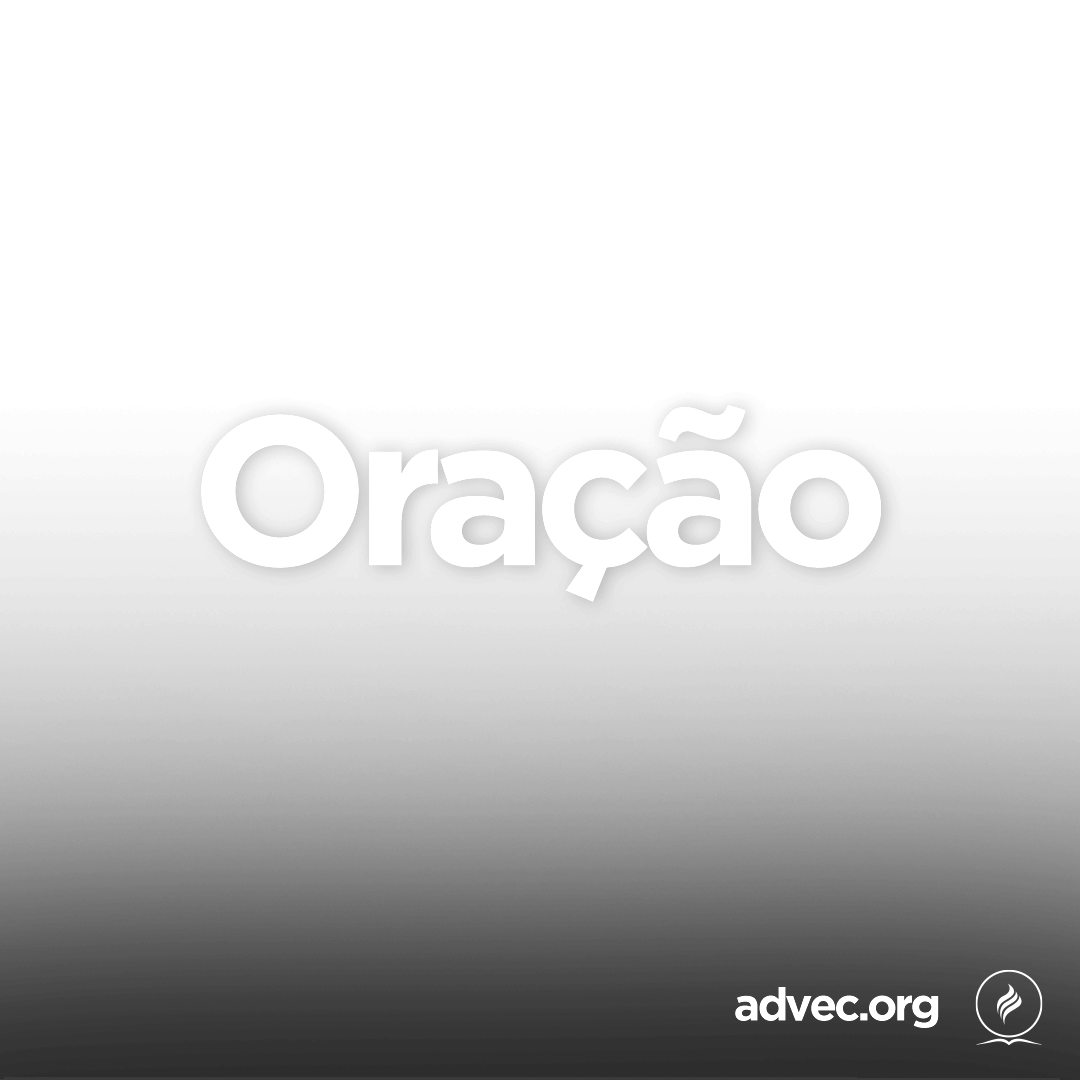
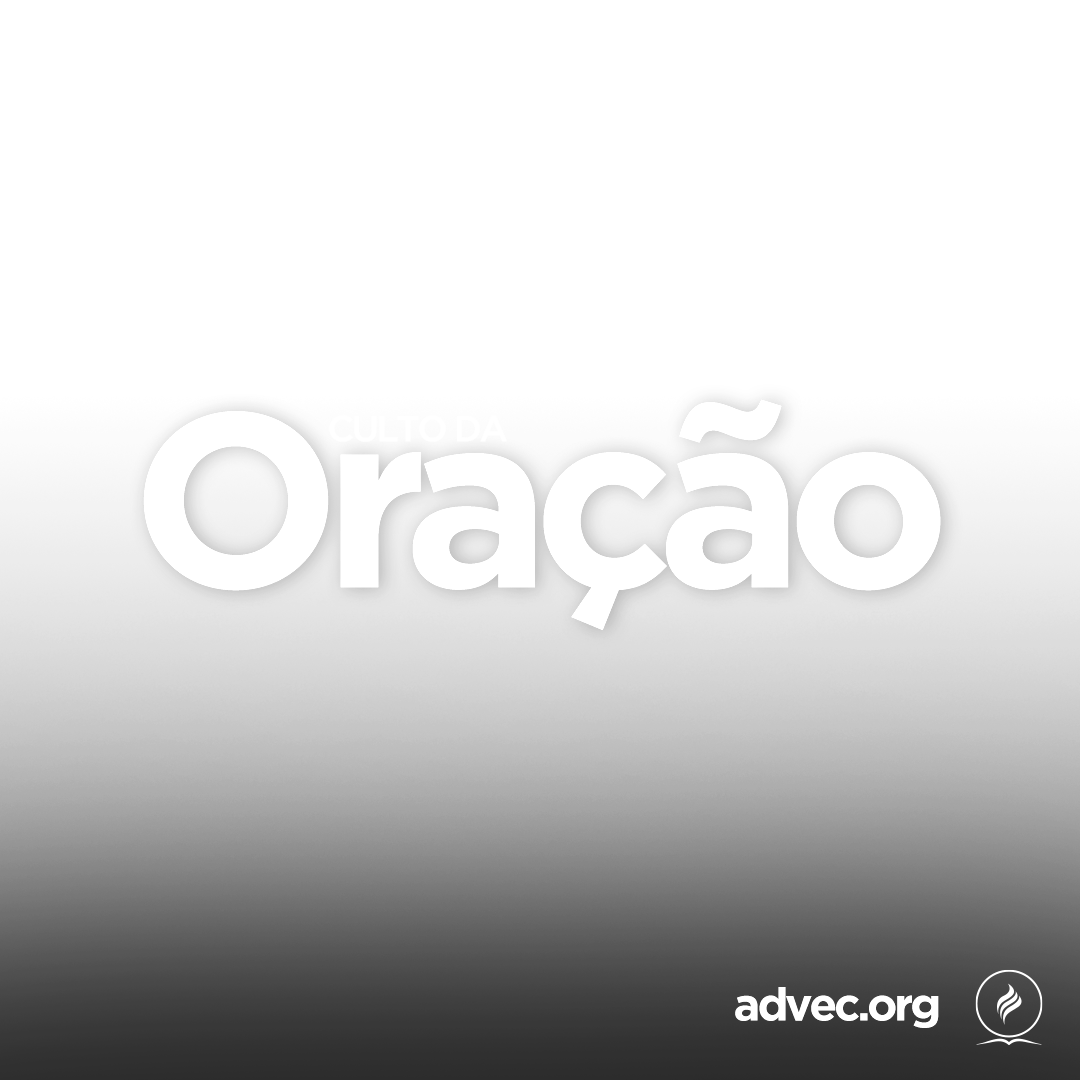
Quebrando linha por sílaba e alterando o loading

Changed region(s): [[0.1833, 0.3972, 0.8556, 0.5806], [0.8556, 0.4583, 0.8861, 0.5194], [0.1528, 0.4278, 0.1833, 0.4889]]

diff --git a/src/components/Models/models.js b/src/components/Models/models.js
@@ -111,7 +111,7 @@ class Models extends Component {
             let root = document.getElementById('root');
             let newMask = document.createElement('div');
             newMask.id = 'downloadMask';
-            newMask.innerHTML = '<h3>Gerando seu arquivo...</h3><img src="'+loader+'">';
+            newMask.innerHTML = '<h3>Criando sua arte...</h3><img src="'+loader+'">';
             root.appendChild(newMask);
             body = document.getElementsByTagName('body')[0];
             body.style.overflow = 'hidden';

diff --git a/src/App.css b/src/App.css
@@ -16,13 +16,13 @@
 
 #downloadMask {
   flex-direction: column;
-  z-index: 5;
+  z-index: 9;
   position: fixed;
   top: 0;
   left: 0;
   width: 100%;
   height: 100%;
-  background: white;
+  background: rgba(0,0,0,.8);
   display: flex;
   align-items: center;
   justify-content: center;
@@ -52,10 +52,10 @@
 
 #downloadMask h3 {
   position: absolute;
-  bottom: 110px;
-  font-size: 26px;
+  bottom: 300px;
+  font-size: 30px;
   font-weight: 300;
-  color: #aa9c9c;
+  color: #fff;
 }
 
 .App-container {

diff --git a/src/components/Models/oracao/main.css b/src/components/Models/oracao/main.css
@@ -31,7 +31,7 @@
 /******* ROWS *********/
 .Oracao .App-editor #boxToEdit .boxContent .row.rowOne {
     position: absolute;
-    bottom: 108px;
+    bottom: 340px;
     width: 800px;
     height: 120px;
     align-items: center;

diff --git a/src/components/Editor/Editor.css b/src/components/Editor/Editor.css
@@ -300,6 +300,6 @@
 .lineOne, .lineTwo, .lineThree {
   white-space: pre-line;
   /* overflow: auto; */
-  word-break: break-all;
+  word-break: break-word;
 }
 
